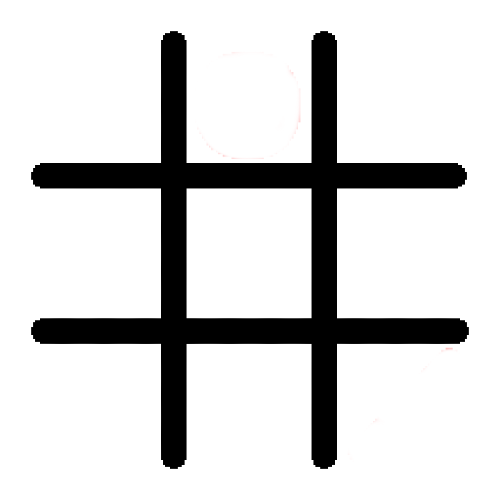
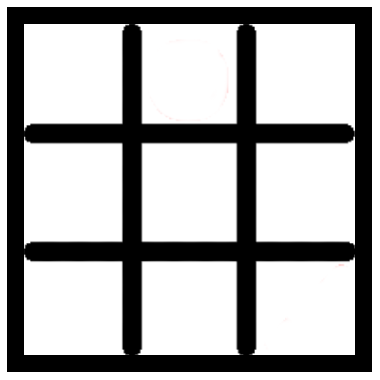
2 player done

Changed region(s): [[0.0, 0.0, 0.9842, 0.9842], [0.6658, 0.3763, 0.6947, 0.6368], [0.3763, 0.3184, 0.6079, 0.3474]]

diff --git a/main.py b/main.py
@@ -11,15 +11,17 @@ import time
 pygame.init()
 pygame.display.set_caption("Tic Tac Toe")
 pygame.display.set_icon(pygame.image.load("icon.png"))
-win = pygame.display.set_mode((500, 500))
+win = pygame.display.set_mode((400, 500))
 background = pygame.image.load("background.jpg")
 board = pygame.image.load("board.png")
 cross = pygame.image.load("cross.png")
 nought = pygame.image.load("nought.png")
-fps = pygame.time.Clock()
+Clock = pygame.time.Clock()
+fps = 10
 black = (0, 0, 0)
 white = (255, 255, 255)
 run = True
+
 
 grid = [[" " for x in range(3)] for y in range(3)]
 ai = "X"
@@ -27,78 +29,235 @@ human = "O"
 turn = ai
 
 
-def AI():
-    global run
+def opponent(turn):
+    if turn == ai:
+        return human
+    return ai
+
+
+def isWinner(x, y):
+    global run, grid, turn
+    list = []
+    for i in range(3):
+        if grid[x][i] != turn:
+            break
+    else:
+        list = [x, 0, x, 2]
+
+    for i in range(3):
+        if grid[i][y] != turn:
+            break
+    else:
+        list = [0, y, 2, y]
+
+    if x == y:
+        for i in range(3):
+            if grid[i][i] != turn:
+                break
+        else:
+            list = [0, 0, 2, 2]
+
+    if x + y == 2:
+        for i in range(3):
+            if grid[2-i][i] != turn:
+                break
+        else:
+            list = [2, 0, 0, 2]
+
+    if list:
+        turn = opponent(turn)
+        for i in range(3):
+            for j in range(3):
+                grid[i][j] = " "
+
+        time.sleep(1)
+        win.blit(background, (0, 0))
+        text = pygame.font.SysFont(
+            None, 100).render(turn+" WON!", True, white)
+        win.blit(text, [80, 130])
+
+        pygame.draw.rect(win, white, (60, 250, 300, 60))
+        text = pygame.font.SysFont(
+            None, 50).render("Play Again!", True, black)
+        win.blit(text, [85, 260])
+
+        pygame.draw.rect(win, white, (60, 350, 300, 60))
+        text = pygame.font.SysFont(
+            None, 50).render("Main Menu", True, black)
+        win.blit(text, [85, 360])
+
+        while run:
+            for event in pygame.event.get():
+                if event.type == pygame.QUIT:
+                    run = False
+                if event.type == pygame.MOUSEBUTTONDOWN:
+                    mx, my = pygame.mouse.get_pos()
+                    if 60 <= mx <= 360 and 250 <= my <= 310:
+                        play()
+                    elif 60 <= mx <= 360 and 350 <= my <= 410:
+                        main()
+            pygame.display.update()
+            Clock.tick(fps)
+
+
+def isTie():
+    global grid, run, turn
+    for i in range(3):
+        for j in range(3):
+            if grid[i][j] == " ":
+                return
+
+    turn = opponent(turn)
+    for i in range(3):
+        for j in range(3):
+            grid[i][j] = " "
+
+    time.sleep(0.5)
     win.blit(background, (0, 0))
-    win.blit(board, (0, 0))
+    text = pygame.font.SysFont(
+        None, 150).render("TIE!", True, white)
+    win.blit(text, [100, 130])
+
+    pygame.draw.rect(win, white, (60, 250, 300, 60))
+    text = pygame.font.SysFont(
+        None, 50).render("Play Again!", True, black)
+    win.blit(text, [85, 260])
+
+    pygame.draw.rect(win, white, (60, 350, 300, 60))
+    text = pygame.font.SysFont(
+        None, 50).render("Main Menu", True, black)
+    win.blit(text, [85, 360])
+
     while run:
         for event in pygame.event.get():
             if event.type == pygame.QUIT:
                 run = False
             if event.type == pygame.MOUSEBUTTONDOWN:
                 mx, my = pygame.mouse.get_pos()
-                print("AI")
+                if 60 <= mx <= 360 and 250 <= my <= 310:
+                    play()
+                elif 60 <= mx <= 360 and 350 <= my <= 410:
+                    main()
         pygame.display.update()
-        fps.tick(5)
+        Clock.tick(fps)
+
+
+def play(level=-1):
+    global run, grid, turn
+    win.blit(background, (0, 0))
+    win.blit(board, (10, 10))
+    while run:
+        for event in pygame.event.get():
+            if event.type == pygame.QUIT:
+                run = False
+            if event.type == pygame.MOUSEBUTTONDOWN:
+                mx, my = pygame.mouse.get_pos()
+                x, y = -1, -1
+                if turn == ai:
+                    image = cross
+                else:
+                    image = nought
+                xcord, ycord = 0, 0
+                if 35 < mx < 130:
+                    x, xcord = 0, 40
+                elif 155 < mx < 250:
+                    x, xcord = 1, 160
+                elif 270 < mx < 365:
+                    x, xcord = 2, 275
+
+                if 35 < my < 130:
+                    y, ycord = 0, 40
+                elif 155 < my < 250:
+                    y, ycord = 1, 160
+                elif 270 < my < 365:
+                    y, ycord = 2, 275
+
+                if x != -1 and y != -1:
+                    if grid[x][y] == " ":
+                        win.blit(image, (xcord, ycord))
+                        pygame.display.update()
+                        grid[x][y] = turn
+                        isWinner(turn, x, y)
+                        isTie()
+                        turn = opponent(turn)
+
+        pygame.display.update()
+        Clock.tick(fps)
 
 
 def difficulty():
     global run
     win.blit(background, (0, 0))
-    cho = pygame.font.SysFont(
-        None, 85).render("Choose Difficulty!", True, white)
-    # win.blit(welcome_text, [55, 80])
+    text = pygame.font.SysFont(
+        None, 60).render("Select Difficulty!", True, white)
+    win.blit(text, [40, 60])
+
+    pygame.draw.rect(win, white, (60, 130, 300, 60))
+    text = pygame.font.SysFont(
+        None, 50).render("Easy", True, black)
+    win.blit(text, [85, 140])
+
     pygame.draw.rect(win, white, (60, 200, 300, 60))
-    vsFriend = pygame.font.SysFont(
-        None, 50).render("You VS Friend", True, black)
-    win.blit(vsFriend, [75, 210])
+    text = pygame.font.SysFont(
+        None, 50).render("Medium", True, black)
+    win.blit(text, [85, 210])
+
+    pygame.draw.rect(win, white, (60, 270, 300, 60))
+    text = pygame.font.SysFont(
+        None, 50).render("Hard", True, black)
+    win.blit(text, [85, 280])
+
+    pygame.draw.rect(win, white, (60, 340, 300, 60))
+    text = pygame.font.SysFont(
+        None, 50).render("Impossible", True, black)
+    win.blit(text, [85, 350])
+
+    pygame.draw.rect(win, white, (60, 410, 300, 60))
+    text = pygame.font.SysFont(
+        None, 50).render("Main Menu", True, black)
+    win.blit(text, [85, 420])
+
     while run:
         for event in pygame.event.get():
             if event.type == pygame.QUIT:
                 run = False
             if event.type == pygame.MOUSEBUTTONDOWN:
                 mx, my = pygame.mouse.get_pos()
-                AI()
+                if 60 <= mx <= 360 and 130 <= my <= 190:
+                    play(0)
+                elif 60 <= mx <= 360 and 200 <= my <= 260:
+                    play(1)
+                elif 60 <= mx <= 360 and 270 <= my <= 330:
+                    play(2)
+                elif 60 <= mx <= 360 and 340 <= my <= 400:
+                    play(3)
+                elif 60 <= mx <= 360 and 410 <= my <= 460:
+                    main()
         pygame.display.update()
-        fps.tick(5)
-
-
-def friend():
-    global run
-    win.blit(background, (0, 0))
-    win.blit(board, (0, 0))
-    while run:
-        for event in pygame.event.get():
-            if event.type == pygame.QUIT:
-                run = False
-            if event.type == pygame.MOUSEBUTTONDOWN:
-                mx, my = pygame.mouse.get_pos()
-                print("friend")
-        pygame.display.update()
-        fps.tick(5)
+        Clock.tick(fps)
 
 
 def main():
     global run
     win.blit(background, (0, 0))
-    welcome_text = pygame.font.SysFont(
-        None, 85).render("TIC TAC TOE!", True, white)
-    win.blit(welcome_text, [55, 80])
+    text = pygame.font.SysFont(
+        None, 70).render("TIC TAC TOE!", True, white)
+    win.blit(text, [50, 80])
 
     pygame.draw.rect(win, white, (60, 200, 300, 60))
-    vsFriend = pygame.font.SysFont(
-        None, 50).render("VS FRIEND", True, black)
-    win.blit(vsFriend, [75, 210])
+    text = pygame.font.SysFont(
+        None, 50).render("YOU VS FRIEND", True, black)
+    win.blit(text, [75, 210])
 
     pygame.draw.rect(win, white, (60, 300, 300, 60))
-    vsAI = pygame.font.SysFont(
-        None, 50).render("You VS AI", True, black)
-    win.blit(vsAI, [85, 310])
+    text = pygame.font.SysFont(
+        None, 50).render("YOU VS AI", True, black)
+    win.blit(text, [85, 310])
 
     pygame.draw.rect(win, white, (60, 400, 300, 60))
-    vsAI = pygame.font.SysFont(
+    text = pygame.font.SysFont(
         None, 50).render("EXIT!", True, black)
-    win.blit(vsAI, [85, 410])
+    win.blit(text, [85, 410])
 
     while run:
         for event in pygame.event.get():
@@ -107,11 +266,13 @@ def main():
             if event.type == pygame.MOUSEBUTTONDOWN:
                 mx, my = pygame.mouse.get_pos()
                 if 60 <= mx <= 360 and 200 <= my <= 260:
-                    friend()
+                    play()
                 elif 60 <= mx <= 360 and 300 <= my <= 360:
                     difficulty()
+                elif 60 <= mx <= 360 and 400 <= my <= 460:
+                    run = False
         pygame.display.update()
-        fps.tick(5)
+        Clock.tick(fps)
 
 
 main()
@@ -119,12 +280,6 @@ main()
 
 # def convert(x, y):
 #     return [y * row // height, x * column // width]
-
-
-# def opponent(turn):
-#     if turn == ai:
-#         return human
-#     return ai
 
 
 # def printGrid():
@@ -144,41 +299,6 @@ main()
 #             if grid[i][j] == " ":
 #                 l.append([i, j])
 #     return l
-
-
-# def isWinner(turn):
-#     for i in range(3):
-#         for j in range(3):
-#             if grid[i][j] != turn:
-#                 break
-#         else:
-#             return True
-#         for j in range(3):
-#             if grid[j][i] != turn:
-#                 break
-#         else:
-#             return True
-
-#     for i in range(3):
-#         if grid[i][i] != turn:
-#             break
-#     else:
-#         return True
-
-#     for i in range(3):
-#         if grid[i][2 - i] != turn:
-#             break
-#     else:
-#         return True
-#     return False
-
-
-# def isTie():
-#     for i in range(3):
-#         for j in range(3):
-#             if grid[i][j] == " ":
-#                 return False
-#     return True
 
 
 # def minimaxPro(alpha, beta, isMaximizing):
